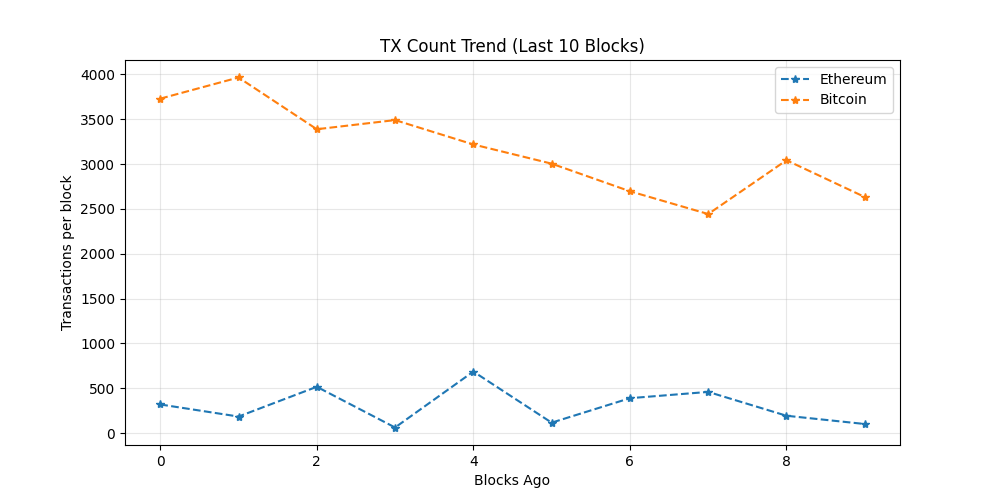
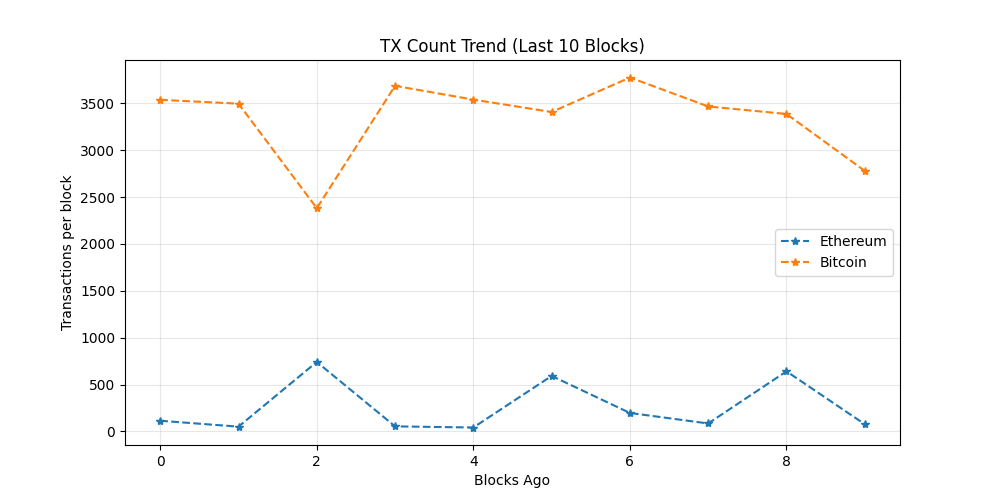
chore: update on-chain dashboard

diff --git a/README.md b/README.md
@@ -19,7 +19,7 @@ The README itself acts as the dashboard and is regenerated automatically on a 6 
 demonstrating a production-style, infrastructure-focused observability workflow rather
 than a traditional UI-driven approach.
 
-_Last updated: 2026-02-05 13:38 UTC_
+_Last updated: 2026-02-05 19:07 UTC_
 
 ## API Usage (GetBlock.io)
 - Calls used: **24**
@@ -27,8 +27,8 @@ _Last updated: 2026-02-05 13:38 UTC_
 ## Network Metrics
 | Chain | Block Height | TX Count | TPS (10 blk avg) | Block Util | Avg Fee |
 |------|-------------|----------|------------------|------------|---------|
-| Ethereum | 24390974 | 101 | 8.42 | 29.81% | 1.2 Gwei |
-| Bitcoin | 935122 | 2633 | 29.26 | 99.8% | N/A |
+| Ethereum | 24392610 | 77 | 6.42 | 22.91% | 2.6 Gwei |
+| Bitcoin | 935154 | 2779 | 694.75 | 99.79% | N/A |
 
 ## Visuals
 ### Transactions Trend
@@ -43,11 +43,11 @@ _Last updated: 2026-02-05 13:38 UTC_
 ## Whale Alerts (latest block)
 - Transaction hashes are truncated for readability.
 - Full hashes are available in `dashboards/metrics.json`
-- Bitcoin | 108.66 BTC | `7c2bfec27c4b…`
-- Bitcoin | 165.3 BTC | `276737382418…`
-- Bitcoin | 125.76 BTC | `48cc8e029cd5…`
-- Bitcoin | 109.88 BTC | `fb77d8a647f2…`
-- Bitcoin | 189.99 BTC | `1bf791ee2878…`
+- Bitcoin | 374.0 BTC | `ff3238ac3dae…`
+- Bitcoin | 175.0 BTC | `b83e8493075a…`
+- Bitcoin | 592.6 BTC | `b95a77976495…`
+- Bitcoin | 101.22 BTC | `749ca931fa8d…`
+- Bitcoin | 107.6 BTC | `fa24dd158476…`
 
 ## Run locally
 
